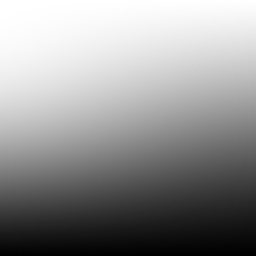
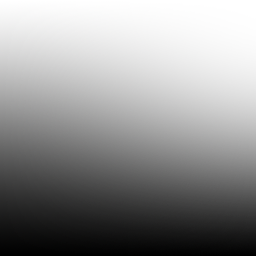
Flipped selector horizontally
Most HSV selectors have it in this orientation. Also added black outline.

diff --git a/Fishbowl/ColorSettings.xaml b/Fishbowl/ColorSettings.xaml
@@ -27,7 +27,7 @@
             <Grid Height="256" Width="256">
                 <!-- Selector Square -->
                 <Rectangle x:Name="ColorSelectorHueRect" Width="256" Height="256" Fill="Red" />
-                <Rectangle Width="256" Height="256" PointerPressed="Selector_PointerPressed">
+                <Rectangle Width="256" Height="256" PointerPressed="Selector_PointerPressed" Stroke="Black">
                     <Rectangle.Fill>
                         <ImageBrush ImageSource="Assets/ColorSelectorSatValGradient.png"/>
                     </Rectangle.Fill>

diff --git a/Fishbowl/FishUtil.cs b/Fishbowl/FishUtil.cs
@@ -171,13 +171,13 @@ namespace Fishbowl
 
         public static void PosToHsv(double x, double y, out double s, out double v)
         {
-            s = 1 - x / 255;
+            s = x / 255;
             v = 1 - y / 255;
         }
 
         public static void HsvToPos(double s, double v, out double x, out double y)
         {
-            x = (1 - s) * 255;
+            x = s * 255;
             y = (1 - v) * 255;
         }
     }
